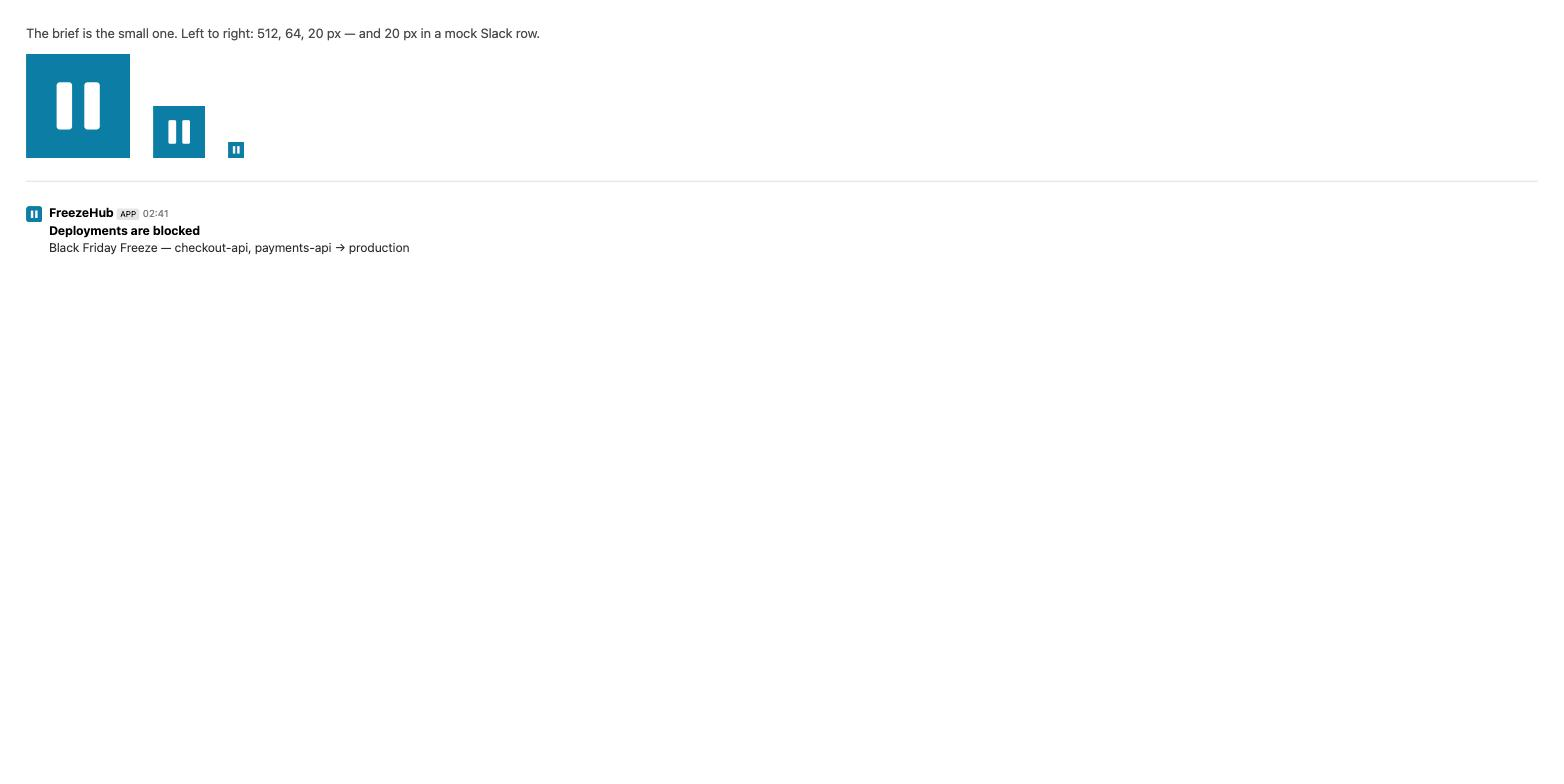
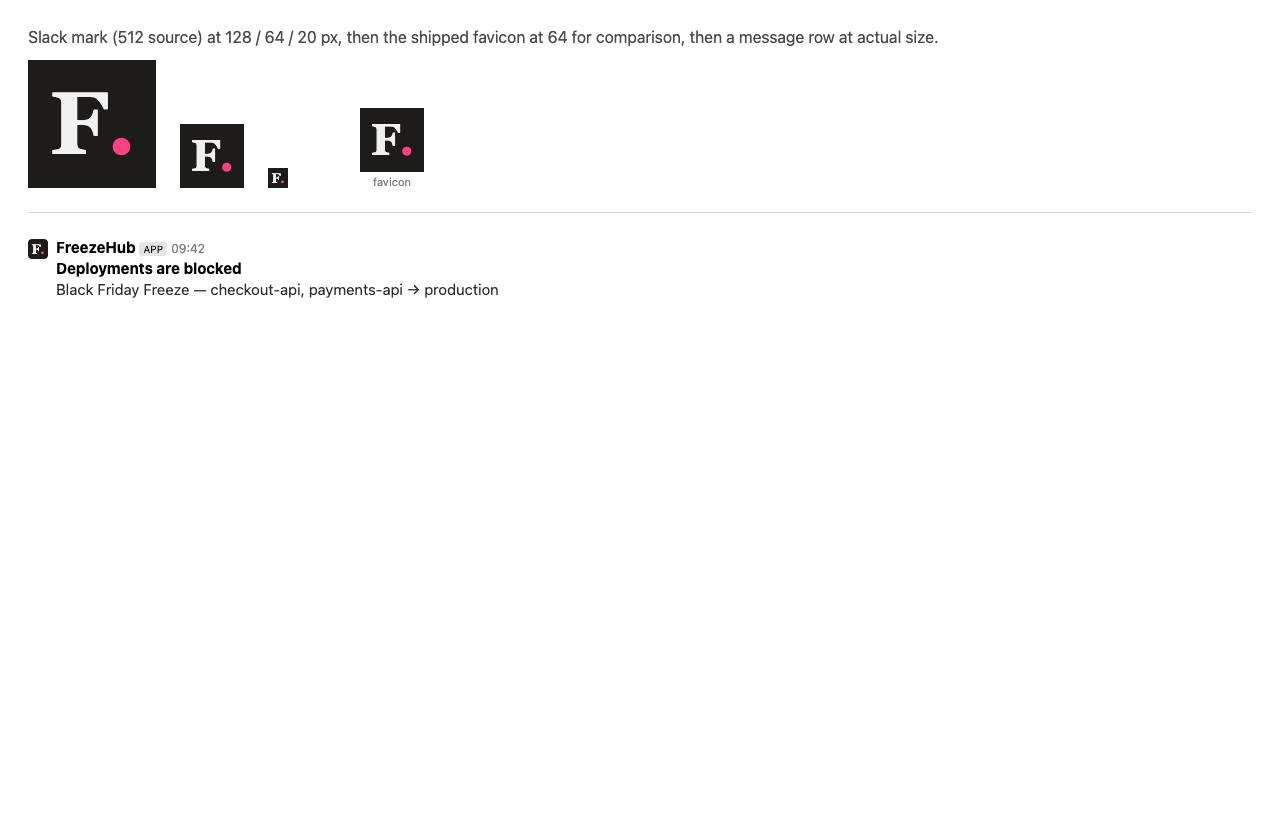
refactor(brand): rebuild the Slack mark on 3a
FZ-196 landed while this was in review and settled the brand: the
operator chose 2c for the wordmark and 3a for the favicon. This story was
built before that, against the old purple bolt, and argued for the teal
accent -- reasoning that is now simply wrong.

Rebuilt as 3a multiplied by eight. Same ink, paper, magenta point, font
stack and letter-spacing as frontend/public/favicon.svg, verified value
by value. A product whose Slack avatar differs from its favicon has two
marks rather than one.

The export failed on the first attempt, which is the useful part.
ImageMagick is the obvious tool and is silently wrong: its SVG renderer
drops <text> entirely, producing a magenta square on ink with no
letterform, and exits 0. That PNG would have been uploaded and nobody
would have noticed until it was live. The output is committed as
evidence and the README names the tools that work.

It matters more here than for the favicon. Both depend on a serif being
installed and FZ-196 accepted that, because a favicon re-renders on every
viewer's machine and degrades to Georgia at 16px. A PNG cannot degrade,
only be wrong, permanently, from the moment it is uploaded. FZ-196 named
outlining the glyph as the durable fix and its own job; this is now the
second caller waiting on it.

Also removed: this branch's claim that the favicon was an off-brand
template leftover. True when written, fixed by FZ-196.

Claude-Session: https://claude.ai/code/session_01EbMqSrw1iPZx6LtRgybPMG

Changed region(s): [[0.0, 0.0306, 0.75, 0.3673], [0.2812, 0.1224, 0.3438, 0.2449]]

diff --git a/docs/08-backlog.md b/docs/08-backlog.md
@@ -4820,35 +4820,35 @@ Acceptance:
 - `npm run lint` is clean.
 
 ### FZ-192 — A Mark for the Slack App
-**Status:** DONE for the SVG · **The PNG export and upload are a human step**
+**Status:** DONE for the SVG · **Follows** `3a` from `FZ-196` · **PNG export is a human step**
 
-The Slack application has no profile picture. Slack wants **512×512 PNG**, and the icon is
-what an announcement is recognised by in a channel where everything else is also a bot.
+The Slack application had no profile picture, so announcements arrived from the default
+grey square in a channel where everything else is also a bot. `FZ-186` gave the message
+structure; this gives it an identity.
 
-**Built:** `docs/brand/slack-app-icon.svg`, plus a `docs/brand/README.md` carrying the
-export commands and the constraint.
+**It is `3a` at 512, not a new mark.** This story was first built against the old purple
+favicon and argued for the product's teal accent. `FZ-196` landed while it was in review
+and settled the question properly — the operator chose `2c` and `3a` from the design deck
+— so the icon was rebuilt as the favicon multiplied by eight: same ink, same paper, same
+magenta point, same font stack, same letter-spacing. A product whose avatar differs from
+its favicon has two marks rather than one.
 
-**A pause, not a snowflake.** A snowflake is the literal reading of "freeze" and its
-points are the first thing to disappear when the mark is shrunk by a factor of
-twenty-five. Two heavy bars are the most legible thing that fits in a small square, and a
-pause is what a freeze does to a deployment. Checked at 20 px in a mock message row
-rather than asserted — see `docs/ui/FZ-192/after.jpg`.
+**The export is the fragile part, and it failed on the first attempt.** ImageMagick — the
+obvious tool, and present on this machine — renders the SVG with **no letterform at all**:
+its SVG renderer drops `<text>`, leaving a magenta square on ink, and exits `0`. That PNG
+would have been uploaded and nobody would have noticed until it was live. The output is
+committed as `docs/ui/FZ-192/bad-export-imagemagick.png` so the next person does not
+rediscover it, and the README names the tools that work.
 
-**Full bleed, no corner radius**, because Slack masks the avatar itself and a radius here
-would round it twice. The bars sit inside the middle 60 percent so no mask clips them.
+**Why it matters more here than for the favicon.** Both depend on a serif being installed,
+and `FZ-196` accepted that: the favicon re-renders on every viewer's machine and degrades
+to Georgia at the 16px `3a` was chosen to survive. A PNG cannot degrade — it can only be
+wrong, permanently, from the moment it is uploaded. `FZ-196` already names outlining the
+glyph as the durable fix and its own job; this entry is the second caller waiting on it.
 
-**Found while doing it:** `frontend/public/favicon.svg` is not brand-consistent. It is a
-purple `#863bff` shape with a dozen Gaussian-blur filters, left over from a template, and
-it matches nothing else in the product — the application's accent is `#0088b0`. The new
-mark uses the accent and the README warns against copying the favicon for anything else.
-Replacing the favicon is not this story and is not filed; it is cosmetic and nobody has
-complained.
+Verified by rendering in a browser at 128 / 64 / 20 px beside the shipped favicon and in a
+message row at actual size — `docs/ui/FZ-192/after.jpg`.
 
-**What can be authored here is an SVG**, from which the PNG is an export — that step is a
-human one. Worth stating rather than discovering at upload.
-
-Constraint worth honouring: it renders at 20 px beside a message. Detail that survives a
-favicon is the brief; anything finer is invisible where it is actually seen.
 
 ### FZ-194 — A Bound, and a Rule About What Goes In It
 **Status:** DONE · **Resolves** `OI-40`

diff --git a/docs/brand/README.md b/docs/brand/README.md
@@ -1,33 +1,62 @@
 # Brand assets
 
+The marks themselves live with the application: `frontend/public/favicon.svg` is option
+`3a`, and `frontend/src/components/Wordmark.tsx` is `2c` (`FZ-196`). This directory is for
+assets that are **uploaded somewhere else** and therefore have to be exported by hand.
+
 ## `slack-app-icon.svg` — the Slack application's profile picture (`FZ-192`)
 
 Announcements arrive in a channel where everything else is also a bot. Without a picture,
 FreezeHub is the one with the default grey square.
 
+**It is `3a` at 512**, not a new mark — every value is the favicon's multiplied by eight. A
+Slack avatar does the same job as a favicon, and a product whose avatar differs from its
+favicon has two marks rather than one.
+
 ### Exporting the PNG
 
-**Slack wants a 512×512 PNG, and it will not take an SVG.** That conversion is a human
-step; this repository holds the source, because an SVG can be edited and diffed and a PNG
-cannot.
+Slack wants a **512×512 PNG** and will not take an SVG.
+
+> **Do not use ImageMagick.** It is the obvious tool and it is silently wrong here: its
+> SVG renderer drops `<text>` altogether, so the export is a magenta square on ink with
+> **no letterform at all**. It exits `0`. `docs/ui/FZ-192/bad-export-imagemagick.png` is
+> the actual output, kept so nobody has to rediscover it.
+
+Use one of these instead:
 
 ```bash
-# any one of these
+# librsvg — renders <text> with the system serif
 rsvg-convert -w 512 -h 512 docs/brand/slack-app-icon.svg -o slack-app-icon.png
+
+# Inkscape
 inkscape docs/brand/slack-app-icon.svg -w 512 -h 512 -o slack-app-icon.png
-magick -background none docs/brand/slack-app-icon.svg -resize 512x512 slack-app-icon.png
+
+# a browser, which is what renders the favicon anyway
+# open the SVG, set the window to 512x512, screenshot
 ```
 
-Then: <https://api.slack.com/apps> → your app → **Basic Information** → **Display
+**Then look at the PNG before uploading it.** That is not a formality. The letterform is
+`<text>`, so it depends on a serif being installed on whichever machine runs the export,
+and unlike the favicon — which re-renders on every viewer's machine and degrades to Georgia
+at the 16px `3a` was chosen to survive — **a PNG cannot degrade, only be wrong**, and it is
+wrong permanently once uploaded.
+
+It should look like `docs/ui/FZ-192/after.jpg`: paper `F` on ink, magenta point.
+
+Upload at <https://api.slack.com/apps> → your app → **Basic Information** → **Display
 Information** → **App icon**.
+
+### The durable fix, when someone wants it
+
+Outline the glyph to a `<path>` and the font dependency disappears for both this and the
+favicon. `FZ-196` already named that as its own job: it needs the Source Serif 4 binary,
+which is not in this repository, plus a tool to extract the path.
 
 ### If you change it
 
-It is seen at **20 px**, beside a message. That is the constraint, not 512. Shrink any
-proposed change to 20 px and look at it before committing — detail that survives a favicon
-is the brief, and anything finer is invisible where it actually appears.
+It is seen at **20 px**, beside a message. Shrink any proposed change to 20 px and look at
+it before committing — and change the favicon with it, or the product has two marks.
 
-The colour is `#0088b0`, `--color-accent` from `frontend/src/index.css`. Note that
-`frontend/public/favicon.svg` is **not** brand-consistent: it is a purple `#863bff` shape
-left over from a template and matches nothing else in the product. Do not copy it for a new
-asset; it is the thing that should eventually be replaced.
+Colours are the Broadsheet tokens written out, because a file rendered outside the document
+cannot read the app's CSS custom properties. Retune the tokens and both files must be
+retuned.
